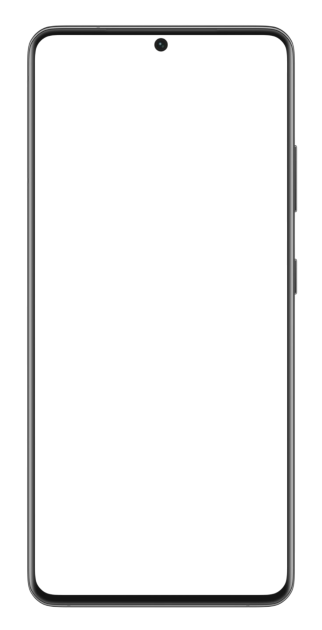
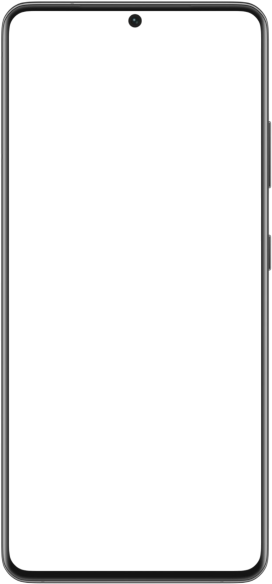
Adição de uma cãmera ao display e criação da bandeja de icones das redes sociais. ajustes nas imagens e no posicionamento dos elementos

Changed region(s): [[0.0, 0.0, 1.0, 1.0]]

diff --git a/css/style.css b/css/style.css
@@ -23,16 +23,72 @@ main {
     top: 50%;
     left: 50%;
     transform: translate(-50%, -50%);
-    width: 322px;
-    height: 630px;
+    width: 272px;
+    height: 584px;
+    border-radius: 30px;
+    box-shadow: 5px 10px 12px rgba(0, 0, 0, 0.521);
     background: url('../img/phone-iframe.png') no-repeat center;
 }
 
 #display {
     position: relative;
-    top: 30px;
-    left: 34px;
+    top: 7px;
+    left: 7px;
     border-radius: 19px;
     width: 255px;
     height: 568px;
+}
+
+#cam {
+    position: relative;
+    top: -560px;
+    left: 123px;
+    width: 25px;
+    height: 25px;
+    z-index: 10;
+    background: url('../img/cam.png');
+}
+
+#social-icons {
+    position: absolute;
+    top: 20px;
+    left: 280px;
+    width: 65px;
+    padding: 10px;
+    border-radius: 20px;
+    box-shadow: 5px 6px 10px 0px rgba(0, 0, 0, 0.545);
+    background-image: linear-gradient(to bottom right, rgba(169, 169, 169, 0.350), rgba(0, 0, 0, 0.250), rgba(0, 0, 0, 0.250), rgba(169, 169, 169, 0.350));
+}
+
+#social-icons ul {
+    width: fit-content;
+    margin: auto;
+    list-style: none;
+}
+
+#social-icons a {
+    position: relative;
+    display: block;
+    width: 60px;
+    height: 60px;
+    margin-bottom: 10px;
+    border-radius: 50%;
+    box-shadow: 2px 2px 3px rgba(0, 0, 0, 0.433);
+    background-image: radial-gradient(rgba(0, 0, 0, 0.364) 25%, #66020491);
+    box-sizing: border-box;
+}
+
+#social-icons a:hover {
+    border: solid #66020450;
+    transform: translate(-3px, -3px);
+    box-shadow: 3px 6px 5px rgba(0, 0, 0, 0.285);
+    transition: transform .2s, border .1s, box-shadow .2s;
+}
+
+#social-icons img {
+    position: absolute;
+    top: 50%;
+    left: 50%;
+    transform: translate(-50%, -50%);
+    width: 35px;
 }

diff --git a/index.html b/index.html
@@ -9,11 +9,17 @@
 <body>
     <main>
         <section id="phone">
-            <iframe src="html/home.html" frameborder="0" name="dsiplay" id="display"></iframe>
-        </section>
-
-        <section id="social-icons">
-
+            <iframe src="html/home.html" frameborder="0" name="display" id="display"></iframe>
+            <div aria-hidden="true" id="cam"></div>
+            <div id="social-icons">
+            <ul>
+                <li><a href="/html/home.html" target="display" ><img src="img/home-icon.png" alt="Home"></a></li>
+                <li><a href="#"><img src="img/github-icon.png" alt="GitHub"></a></li>
+                <li><a href="#"><img src="img/linkedin-icon.png" alt="Linkedin"></a></li>
+                <li><a href="#"><img src="img/instagram-icon.png" alt="Instagram"></a></li>
+                <li><a href="#"><img src="img/facebook-icon.png" alt="Facebook"></a></li>
+            </ul>
+        </div>
         </section>
     </main>
 </body>
